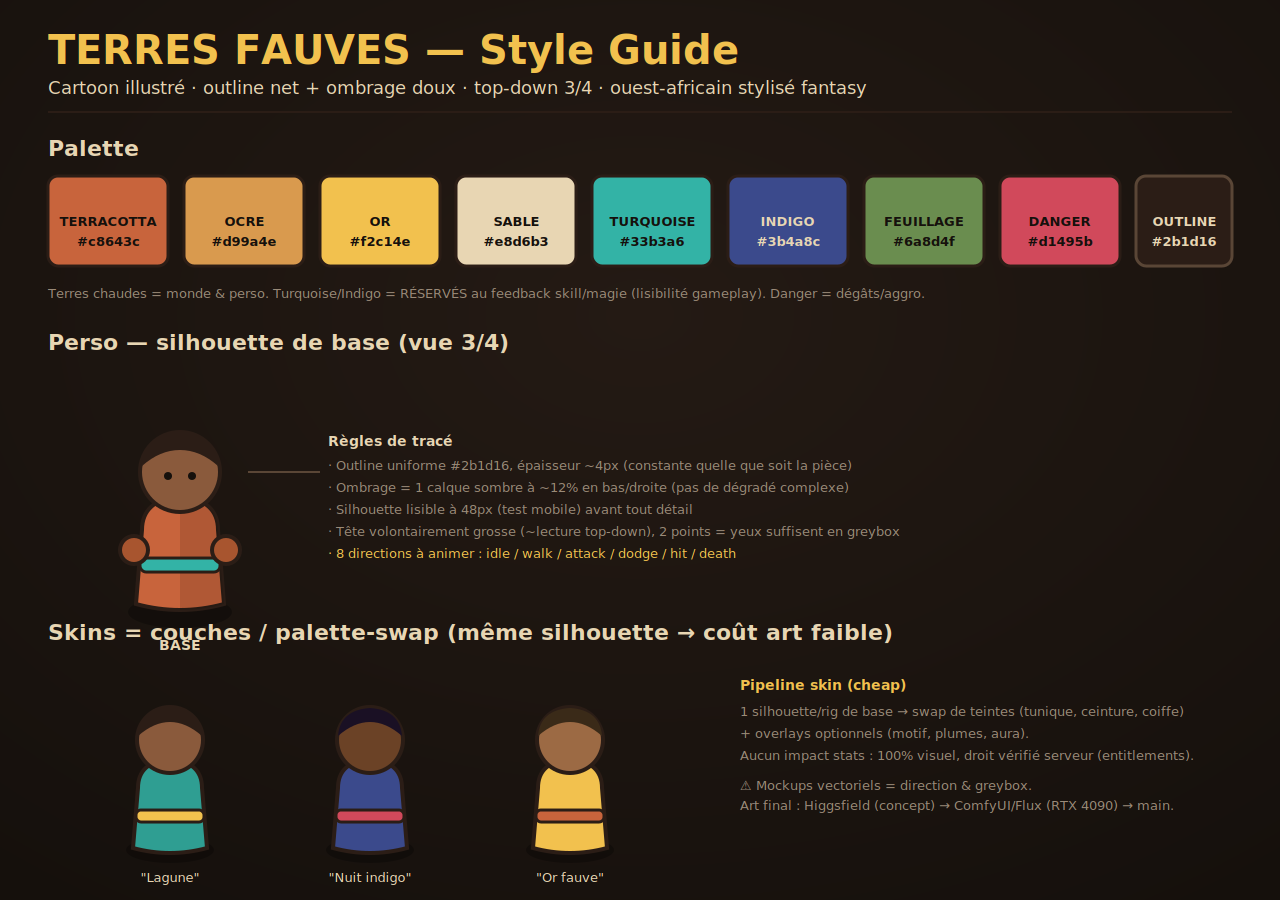
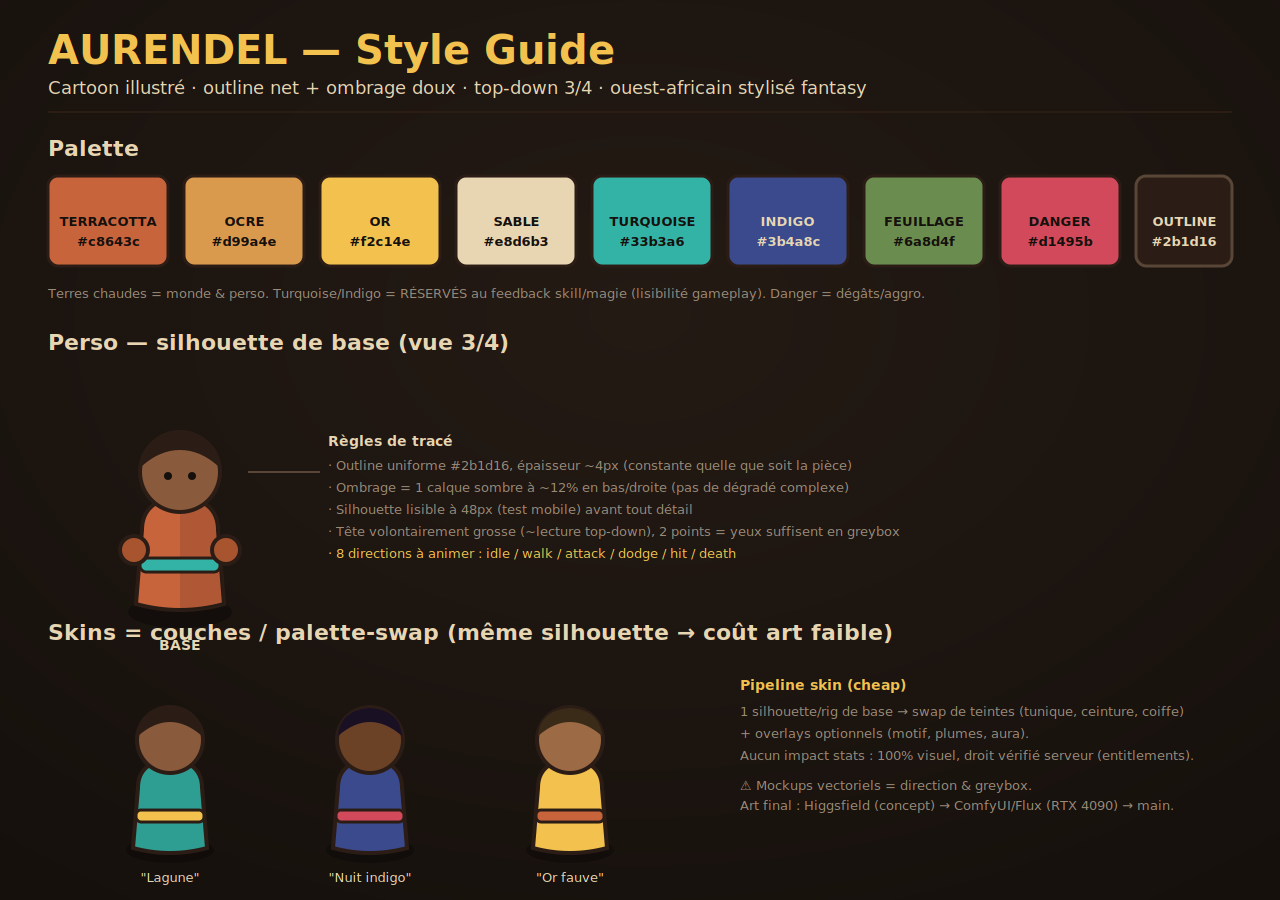
Renommage du jeu: Terres Fauves -> Aurendel (code, config, docs, planches DA)
https://claude.ai/code/session_01EimwAVVDcpp486MFtLLhPv

Changed region(s): [[0.0312, 0.0311, 0.5938, 0.0933]]

diff --git a/game/server/runtime/src/main.ts b/game/server/runtime/src/main.ts
@@ -1,5 +1,5 @@
 /**
- * Terres Fauves — runtime serveur Nakama (TypeScript).
+ * Aurendel — runtime serveur Nakama (TypeScript).
  *
  * PRINCIPE NON NEGOCIABLE : logique AUTORITATIVE serveur.
  * Le client n'est jamais cru. Progression, loot, economie, metiers et
@@ -21,7 +21,7 @@ function rpcHealthcheck(
   nk: nkruntime.Nakama,
   payload: string
 ): string {
-  return JSON.stringify({ ok: true, service: "terres-fauves", ts: Date.now() });
+  return JSON.stringify({ ok: true, service: "aurendel", ts: Date.now() });
 }
 
 /** Point d'entree appele par Nakama au demarrage. */
@@ -32,7 +32,7 @@ function InitModule(
   initializer: nkruntime.Initializer
 ): void {
   initializer.registerRpc(RPC_HEALTHCHECK, rpcHealthcheck);
-  logger.info("[Terres Fauves] runtime autoritatif initialise — Phase 0.");
+  logger.info("[Aurendel] runtime autoritatif initialise — Phase 0.");
 }
 
 // Empeche esbuild de supprimer InitModule au tree-shaking.

diff --git a/game/README.md b/game/README.md
@@ -1,11 +1,11 @@
-# Terres Fauves
+# Aurendel
 
 RPG 2D top-down (vue 3/4) multijoueur coopératif : combat/bashing, progression long
 terme, **métiers & craft façon Dofus**, quêtes, co-op en instance, **arènes PvP**, et
 **boutique de cosmétiques** (zéro pay-to-win).
 
 > ℹ Ce dossier `game/` est un **pont temporaire** dans le repo `-chos` (qui héberge un
-> site web). Il sera extrait vers un repo dédié `terres-fauves` via
+> site web). Il sera extrait vers un repo dédié `aurendel` via
 > `git subtree split` une fois ce dernier créé — historique préservé.
 
 ## Stack
@@ -48,12 +48,12 @@ godot --headless --path . -s res://tests/test_combat.gd   # code 0 = OK
 ## Docs
 - `docs/ARCHITECTURE.md` — shards/instances, serveur autoritatif, netcode.
 - `docs/DATA_SCHEMA.md` — données persistantes + cosmétiques/entitlements (anti-P2W).
-- `docs/ART_DIRECTION.md` — direction "Terres Fauves".
+- `docs/ART_DIRECTION.md` — direction "Aurendel".
 
 ## État
 **Phase 0 — Fondations** ✅
 - [x] Projet Godot 4.6 (2D) · docker-compose Nakama+Postgres · runtime TS (RPC `healthcheck`)
-- [x] Arbo assets · schéma données + cosmétiques · DA "Terres Fauves" figée
+- [x] Arbo assets · schéma données + cosmétiques · DA "Aurendel" figée
 
 **Phase 1 — Cœur du fun (offline)** ✅ *(à valider manette/clavier en main)*
 - [x] Controller top-down 8 dir + accel/friction, caméra de suivi lissée

diff --git a/game/docs/ART_DIRECTION.md b/game/docs/ART_DIRECTION.md
@@ -1,4 +1,4 @@
-# Direction Artistique — "Terres Fauves" ✅ FIGÉE (2026-06-13)
+# Direction Artistique — "Aurendel" ✅ FIGÉE (2026-06-13)
 
 > Validée contre 2 alternatives ("Brume d'Émeraude", "Cendres & Néon", voir
 > `assets/concept/mockups/`). Retenue car seule direction à la fois distinctive

diff --git a/game/docs/ARCHITECTURE.md b/game/docs/ARCHITECTURE.md
@@ -1,4 +1,4 @@
-# Architecture — Terres Fauves
+# Architecture — Aurendel
 
 ## Principes non négociables
 
